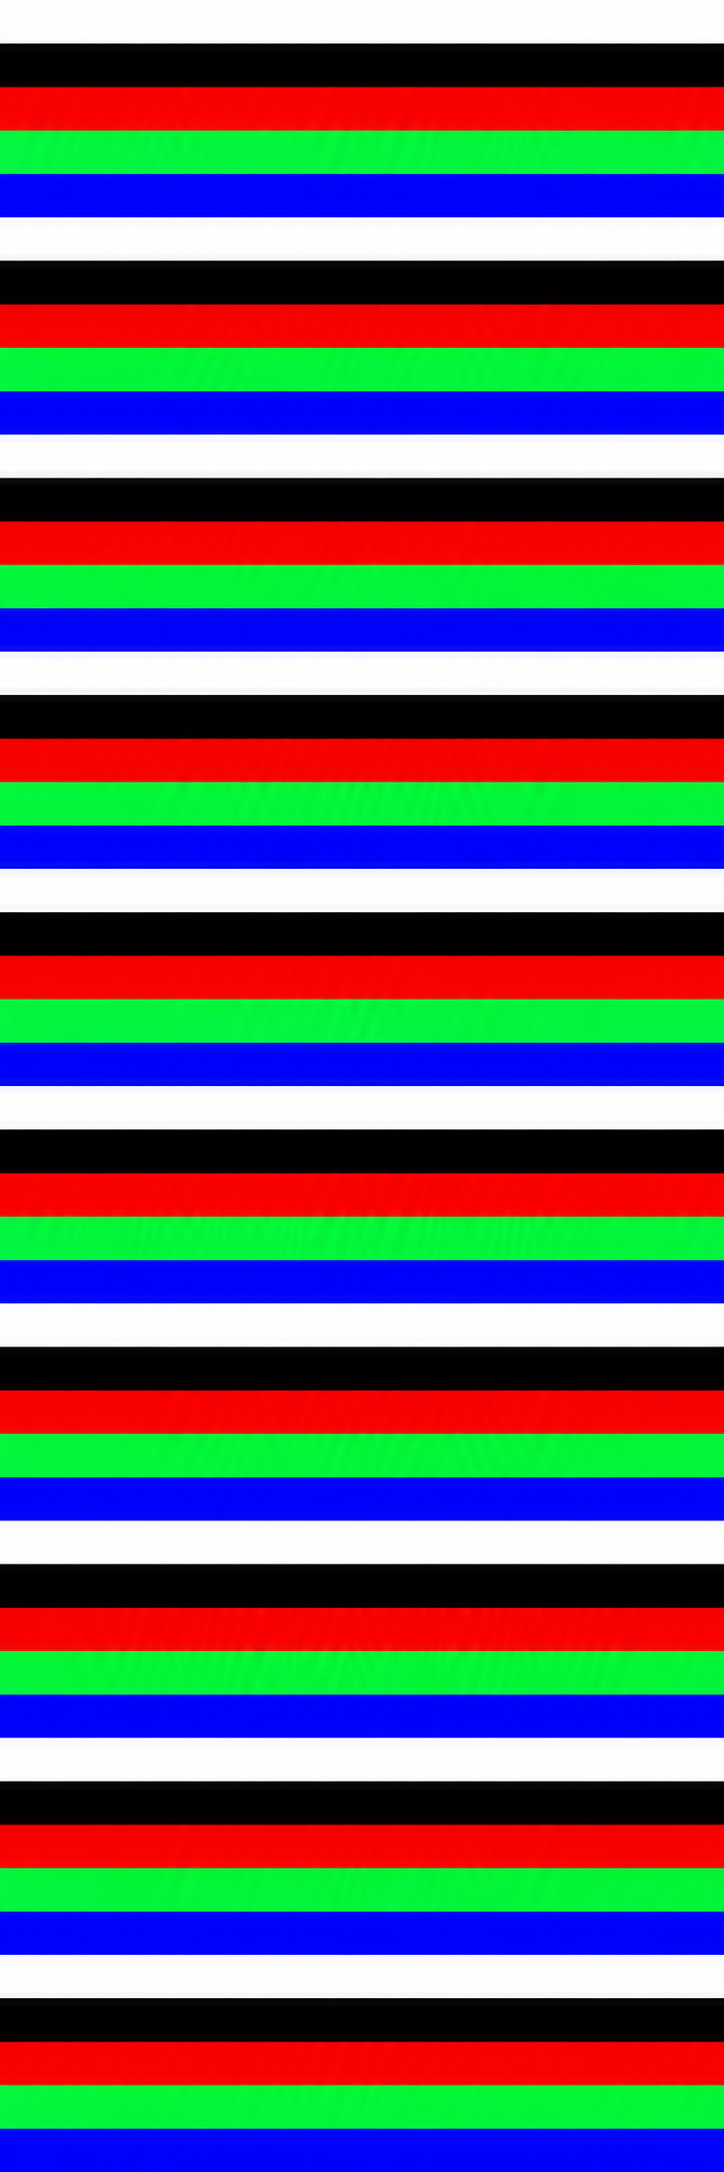
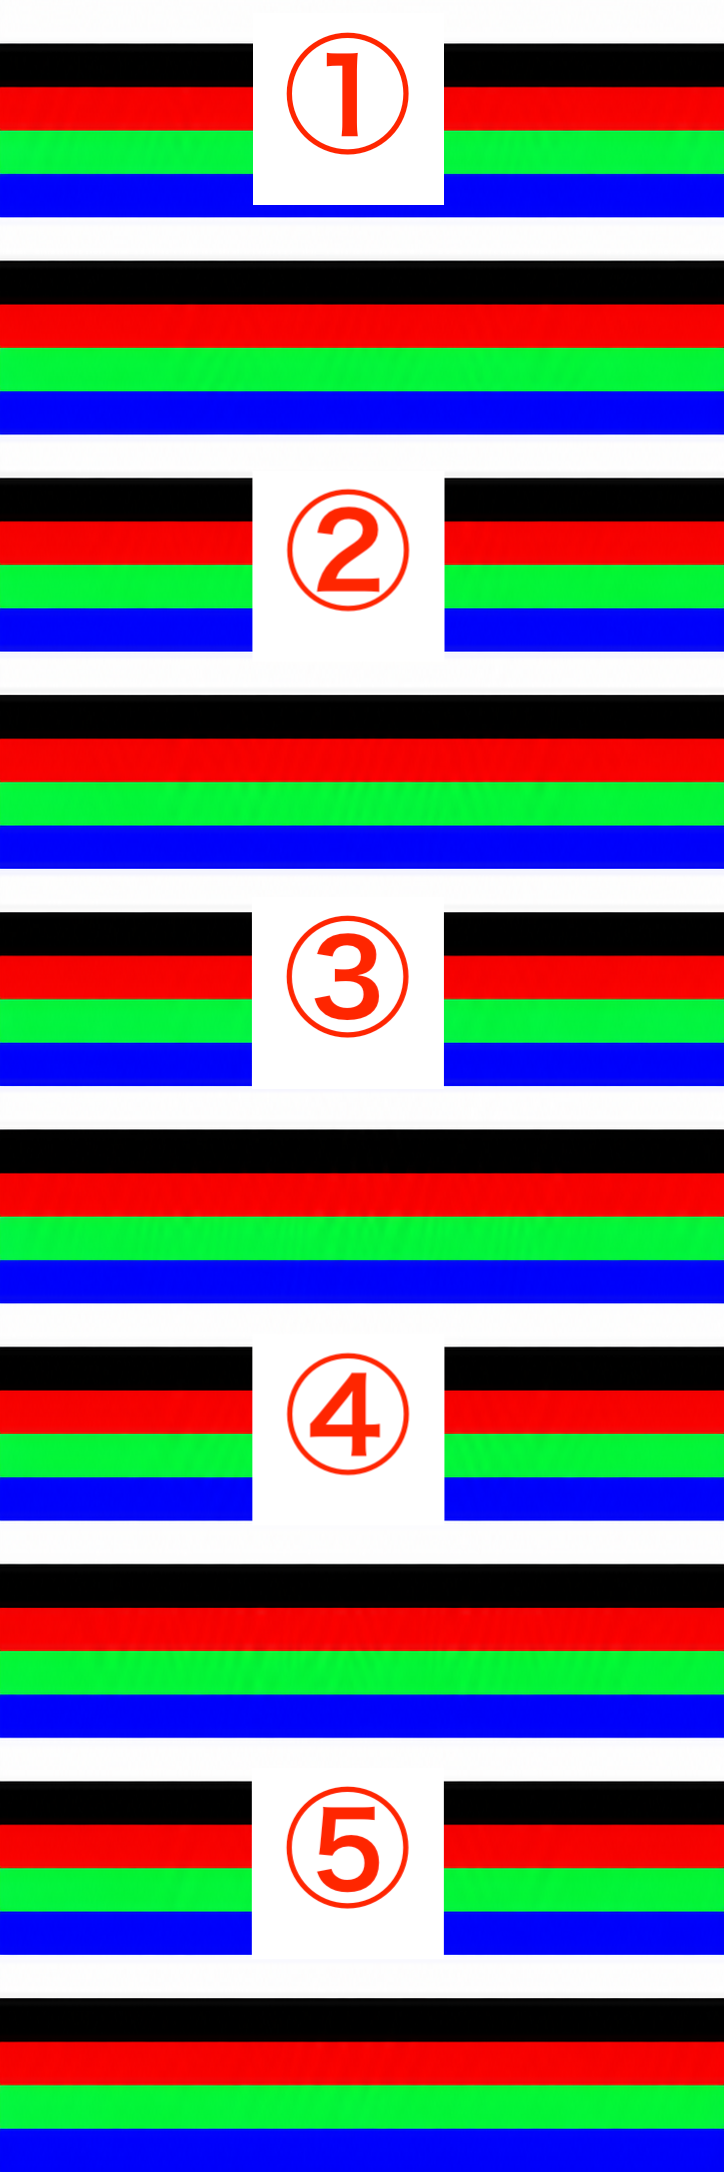
ホイールクリック時の拡大表示

diff --git a/main.py b/main.py
@@ -30,8 +30,8 @@ class MainWindow(QMainWindow):
         self.resize(800, 600)
 
         self.rotation_angle = 0 # 現在の表示上の回転角度
-        self.is_fit_mode = True # Fitモード（画像全体をView内に収めて表示）のフラグ
-        self.zoom_factor = 1.0  # 画像の縮尺
+        self.initial_scale = 1.0 # 初期の画像スケール
+        self.current_scale = 1.0 # 現在の画像スケール
 
         # 画像を表示する Scene
         self.scene = QGraphicsScene(self)
@@ -44,8 +44,8 @@ class MainWindow(QMainWindow):
         self.view.setVerticalScrollBarPolicy(Qt.ScrollBarAlwaysOff)
 
         # 画像を読み込んで Qt が画面表示できる画像データに変換する
-        self.pixmap = QPixmap("nekochan.webp")
-        #self.pixmap = QPixmap("test_image_724-2172.png")
+        #self.pixmap = QPixmap("nekochan.webp")
+        self.pixmap = QPixmap("test_image_724-2172.png")
 
         # Pixmap を Scene 上に配置する Item に変換
         self.image_item = QGraphicsPixmapItem(self.pixmap)
@@ -63,27 +63,6 @@ class MainWindow(QMainWindow):
 
         # 画像の初期表示
         self.reset_to_initial_view()
-    
-    # 画像の縮尺変更 (画像自体のサイズは変更せず、View側の倍率を変更する)
-    def fit_to_window(self):
-        self.is_fit_mode = True
-        self.zoom_factor = 1.0
-
-        # Zoom すると QGraphicsView 内部に「1.2倍」のような Transform が残るため
-        # View の倍率を一度リセットする
-        self.view.resetTransform()
-
-        # 回転後の画像がScene上で占める領域を取得
-        image_rect = self.image_item.sceneBoundingRect()
-
-        # Sceneの範囲を回転後の画像に合わせる
-        self.scene.setSceneRect(image_rect)
-
-        # Scene全体がView内に収まるようにする
-        self.view.fitInView(
-            image_rect,
-            Qt.KeepAspectRatio,
-        )
     
     # 左右に90度回転
     def rotate_right(self):
@@ -122,102 +101,67 @@ class MainWindow(QMainWindow):
     
     # 画像の初期表示 (高解像度なら画面高さを上限に縮小表示)
     def reset_to_initial_view(self):
-        self.zoom_factor = 1.0
-        self.view.resetTransform()
-
         image_rect = self.image_item.sceneBoundingRect()
 
-        # Viewerが現在表示されているモニタを取得
         screen = self.screen()
         available_rect = screen.availableGeometry()
 
-        # debug
-        print("screen:", screen.name())
-        print(
-            "available:",
-            available_rect.width(),
-            available_rect.height(),
-        )
-
-        print(
-            "window:",
-            self.width(),
-            self.height(),
-        )
-
-        print(
-            "viewport:",
-            self.view.viewport().width(),
-            self.view.viewport().height(),
-        )
-
-        transform = self.view.transform()
-
-        print("scale X:", transform.m11())
-        print("scale Y:", transform.m22())
-        print("---")
-
-        image_height = image_rect.height()
-        max_height = available_rect.height()
-
-        if image_height > max_height:
-            scale_factor = max_height / image_height
-
-            self.view.scale(
-                scale_factor,
-                scale_factor,
+        # 画像の解像度が画面の解像度を超える場合、画面の高さを上限に縮小表示
+        if image_rect.height() > available_rect.height():
+            self.initial_scale = (
+                available_rect.height() / image_rect.height()
             )
+        else:
+            self.initial_scale = 1.0
+
+        self.current_scale = self.initial_scale
 
         self.scene.setSceneRect(image_rect)
+        self.apply_scale()
         self.resize_window_to_image()
+
+        self.view.centerOn(image_rect.center())
+    
+    def apply_scale(self):
+        self.view.resetTransform()
+        self.view.scale(
+            self.current_scale,
+            self.current_scale,
+        )
 
     # 拡大・縮小・縮尺リセット
     def zoom_in(self):
-        self.is_fit_mode = False
-        self.zoom_factor += 0.2
-        self.apply_zoom()
+        self.current_scale += 0.2
+        self.apply_scale()
         self.resize_window_to_image()
 
     def zoom_out(self):
-        self.is_fit_mode = False
-        self.zoom_factor = max(0.1, self.zoom_factor - 0.2)
-        self.apply_zoom()
+        self.current_scale = max(
+            0.1,
+            self.current_scale - 0.2,
+        )
+        self.apply_scale()
         self.resize_window_to_image()
     
-    def apply_zoom(self):
-        # 現在の Fit表示を 100% の基準とする
-        self.view.resetTransform()
+    # マウスホイールクリック時に 画像の100%表示 → 初期表示 をトグル
+    def toggle_original_scale(self, view_pos):
+        # クリックした場所を Scene座標へ変換
+        scene_pos = self.view.mapToScene(view_pos)
 
-        image_rect = self.image_item.sceneBoundingRect()
-        self.view.fitInView(
-            image_rect,
-            Qt.KeepAspectRatio,
-        )
+        # 現在100%表示なら初期表示へ戻す
+        if abs(self.current_scale - 1.0) < 0.001:
+            self.reset_to_initial_view()
+            return
 
-        # Fit表示を基準に Zoom倍率を掛ける
-        self.view.scale(
-            self.zoom_factor,
-            self.zoom_factor,
-        )
-    
-    # 画像を元の縮尺に戻す
-    def reset_to_original_size(self):
-        self.is_fit_mode = False
-        self.zoom_factor = 1.0
+        # 100%表示へ
+        self.current_scale = 1.0
+        self.apply_scale()
 
-        # View の Transform をリセット
-        self.view.resetTransform()
+        # ウィンドウ最大化
+        self.showMaximized()
 
-        # 画像の表示領域を更新
-        image_rect = self.image_item.sceneBoundingRect()
-        self.scene.setSceneRect(image_rect)
-
-        # オリジナルサイズに合わせて Window も変更
-        self.resize_window_to_image()
-        
-    # # ウィンドウサイズが変更されたときに Qt から自動的に呼ばれるメソッド
-    # def resizeEvent(self, event):
-    #     super().resizeEvent(event)
+        # クリックした画像位置を View中央へ
+        self.view.centerOn(scene_pos)
     
     # キー入力
     def keyPressEvent(self, event):
@@ -281,6 +225,18 @@ class ImageView(QGraphicsView):
 
         # QGraphicsView 標準のスクロール処理には渡さない
         event.accept()
+    
+    def mousePressEvent(self, event):
+        # マウスホイールクリック: toggle_original_scale()
+        if event.button() == Qt.MiddleButton:
+            view_pos = event.position().toPoint()
+
+            self.window().toggle_original_scale(view_pos)
+
+            event.accept()
+            return
+
+        super().mousePressEvent(event)
 
 
 def main():
